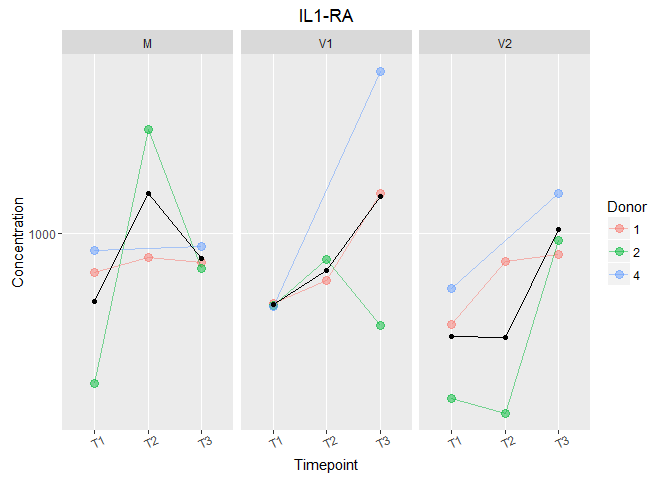
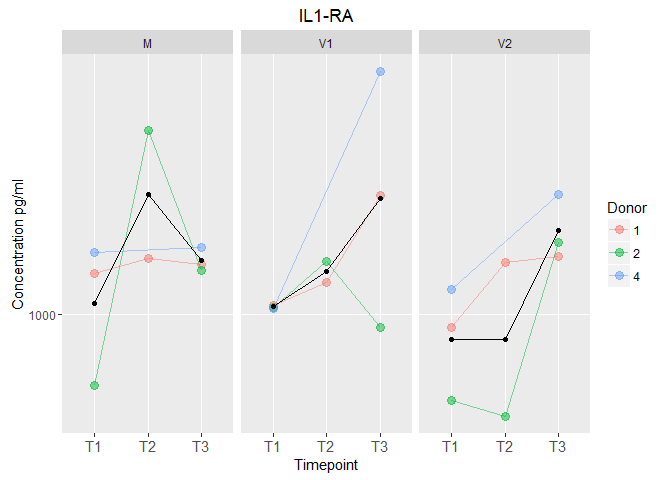
multiplied the concentrations by 2 to get an estimate of stock concentration of the sups

diff --git a/MSD_panels_1_2_3_HVE_sup_analysis.md b/MSD_panels_1_2_3_HVE_sup_analysis.md
@@ -65,7 +65,7 @@ The following plots show that the 1:2 dilution of the samples resulted in more s
 Plots of analyte concentrations
 -------------------------------
 
-Black points show the means.
+These samples were diluted 1:2 so I multiplied the concentrations by 2 to estimate the stock concentration of the supernatents. Black points show the means.
 
 Caveats
 -------
